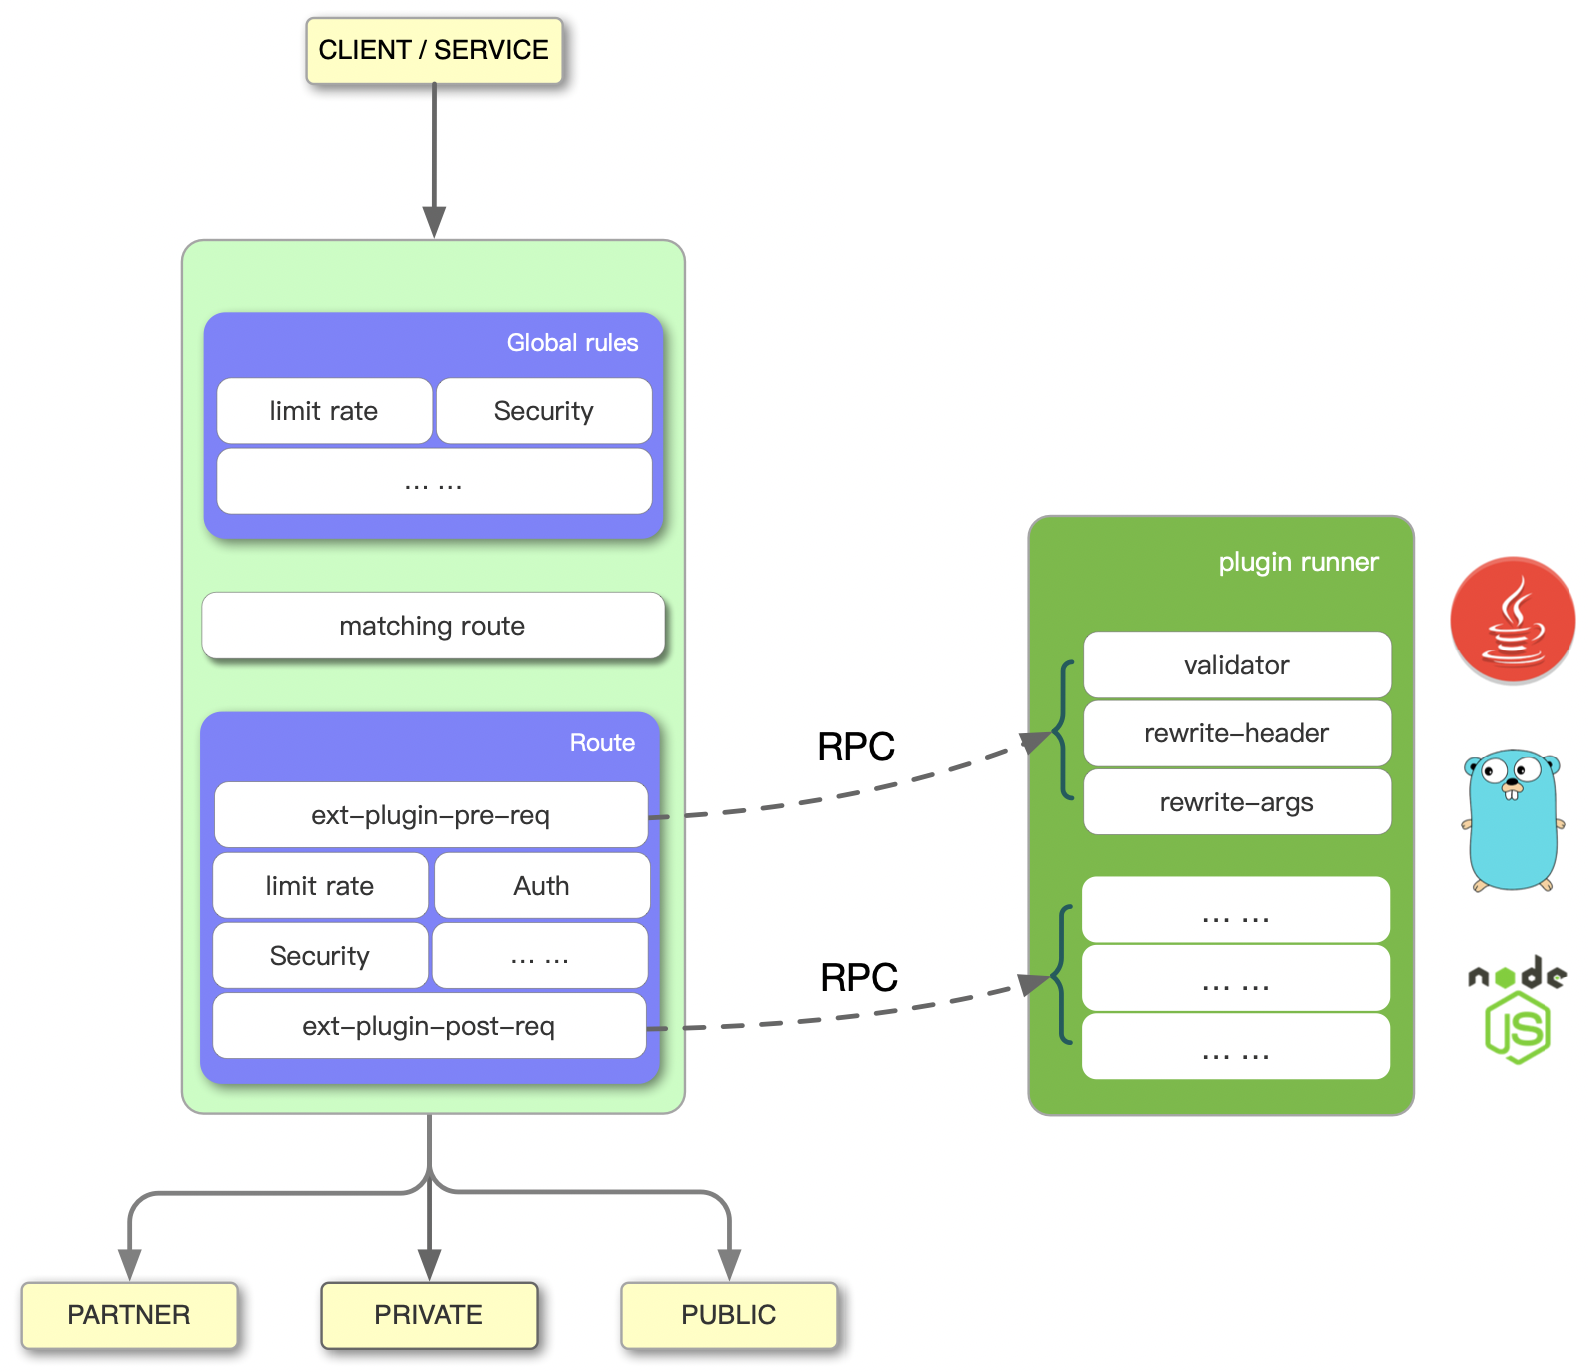
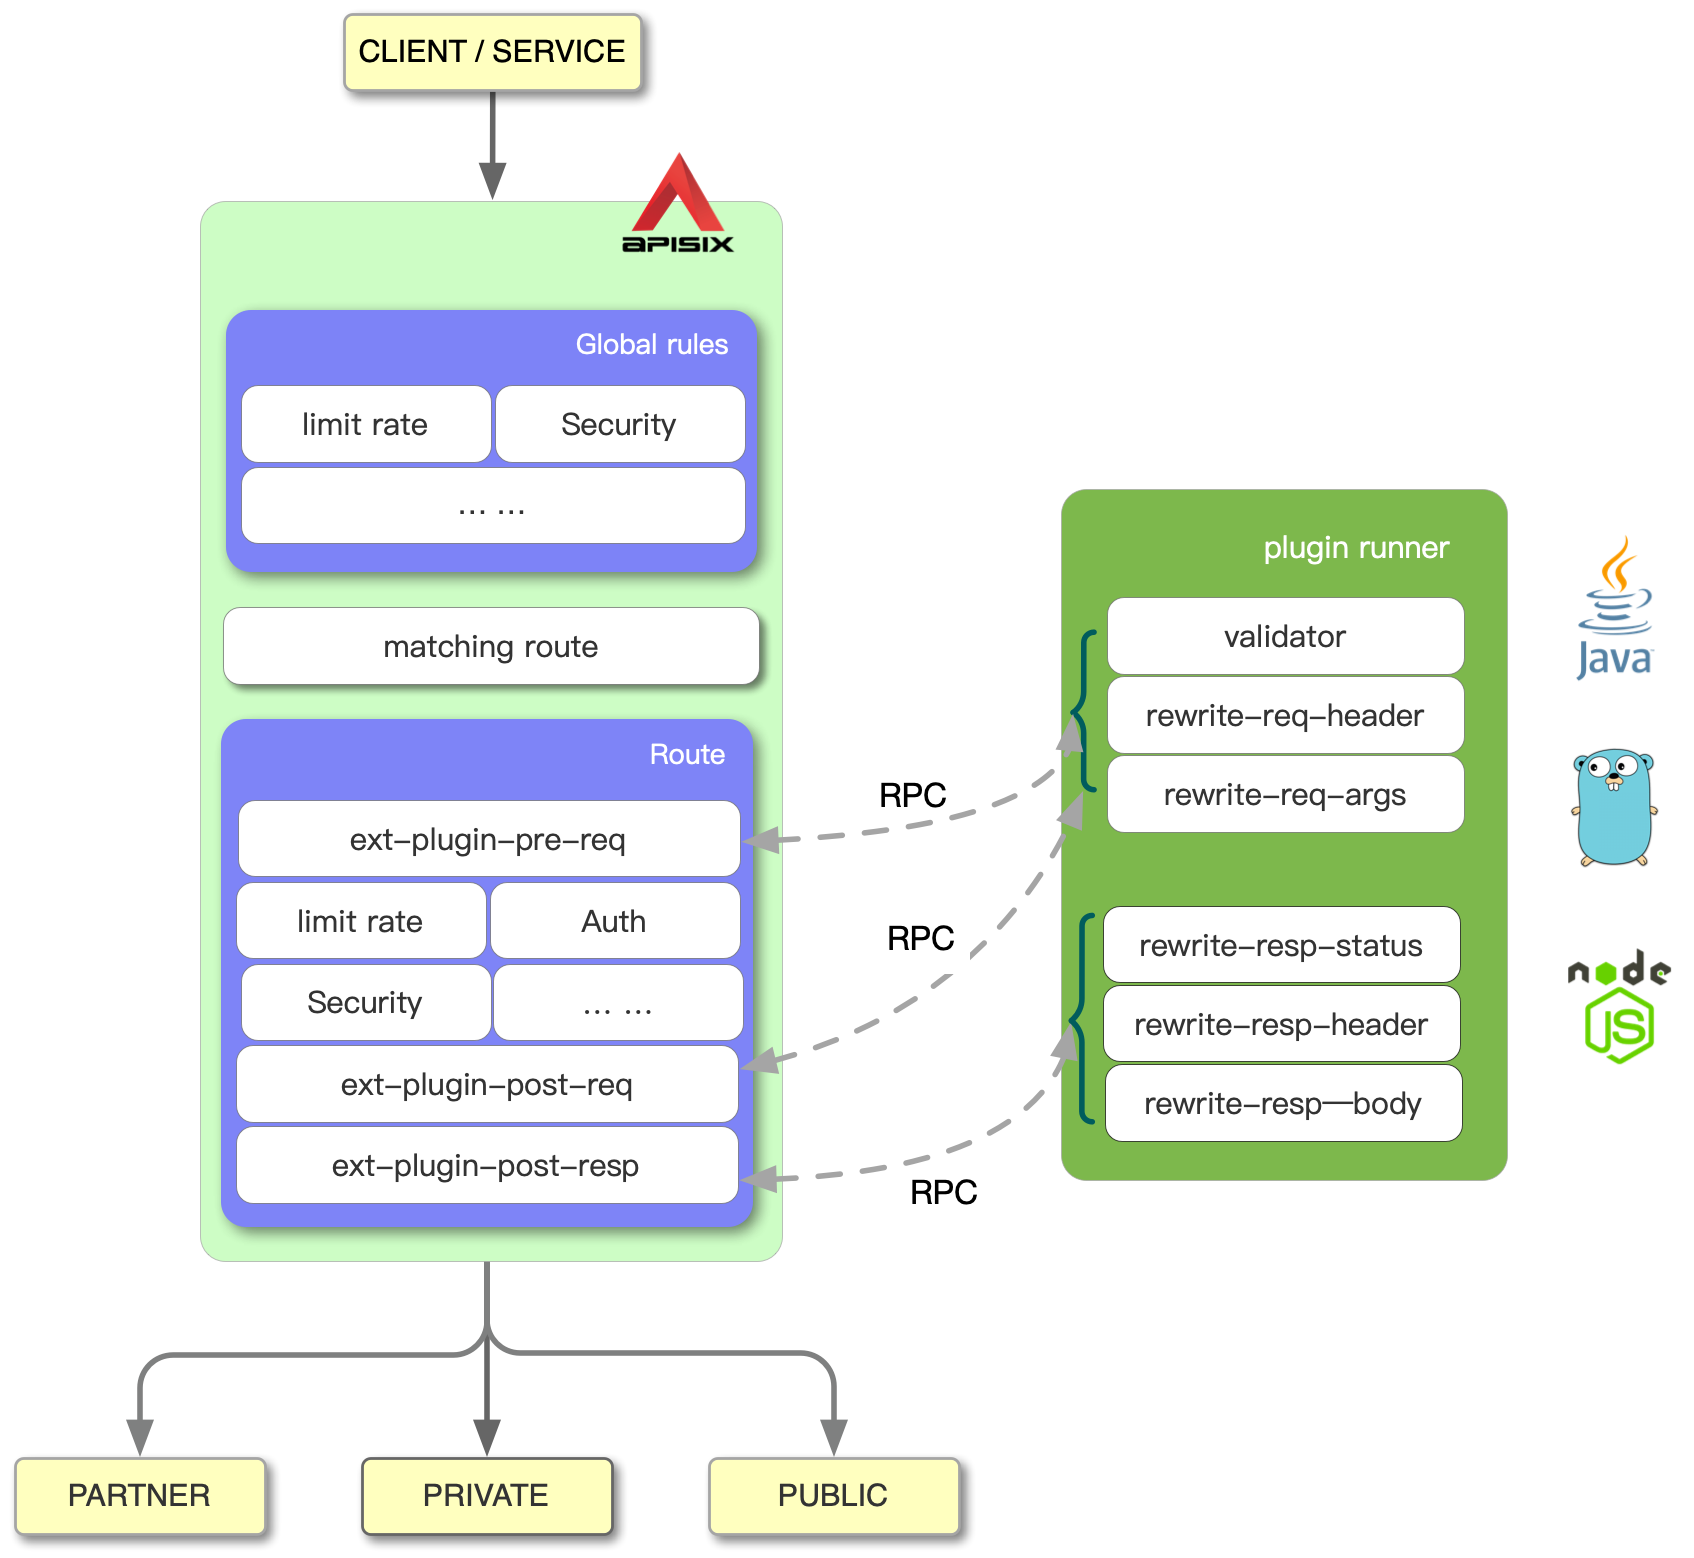
docs: add response filter for doc (#93)

Changed region(s): [[0.0, 0.0, 1.0, 1.0]]

diff --git a/docs/en/latest/getting-started.md b/docs/en/latest/getting-started.md
@@ -132,8 +132,43 @@ We can see that the RequestFilter takes the value of the body set in the configu
 (respond directly in the plugin), it will response directly in the APISIX without touching the upstream. We can also set response headers in the plugin and touch the upstream
 at the same time by set RespHeader in `pkgHTTP.Request`.
 
-For the `pkgHTTP.Request`, you can refer to the API documentation provided by the Go Runner SDK:
-https://pkg.go.dev/github.com/apache/apisix-go-plugin-runner
+`ResponseFilter` supports rewriting the response during the response phase, we can see an example of its use in the ResponseRewrite plugin:
+
+```go
+type ResponseRewriteConf struct {
+    Status  int               `json:"status"`
+    Headers map[string]string `json:"headers"`
+    Body    string            `json:"body"`
+}
+
+func (p *ResponseRewrite) ResponseFilter(conf interface{}, w pkgHTTP.Response) {
+	cfg := conf.(ResponseRewriteConf)
+	if cfg.Status > 0 {
+		w.WriteHeader(200)
+	}
+
+	w.Header().Set("X-Resp-A6-Runner", "Go")
+	if len(cfg.Headers) > 0 {
+		for k, v := range cfg.Headers {
+			w.Header().Set(k, v)
+		}
+	}
+
+	if len(cfg.Body) == 0 {
+		return
+	}
+	_, err := w.Write([]byte(cfg.Body))
+	if err != nil {
+		log.Errorf("failed to write: %s", err)
+	}
+}
+```
+
+We can see that `ResponseFilter` will rewrite the status, header, and response body of the response phase according to the configuration.
+
+In addition, we can also get the status and headers in the original response through `pkgHTTP.Response`.
+
+For the `pkgHTTP.Request` and `pkgHTTP.Response`, you can refer to the [API documentation](https://pkg.go.dev/github.com/apache/apisix-go-plugin-runner) provided by the Go Runner SDK.
 
 After building the application (`make build` in the example), we need to set some environment variables at runtime:
 
@@ -159,8 +194,9 @@ When you configure a plugin runner in APISIX, APISIX will treat the plugin runne
 
 If you configure the ext-plugin-* plugin for a given route, a request to hit that route will trigger APISIX to make an RPC call to the plugin runner via a unix socket. The call is broken down into two phases.
 
-- ext-plugin-pre-req: before executing most of the APISIX built-in plugins (Lua language plugins)
-- ext-plugin-post-req: after the execution of the APISIX built-in plugins (Lua language plugins)
+- ext-plugin-pre-req: executed during handling the request, before most of the APISIX built-in plugins (Lua language plugins)
+- ext-plugin-post-req: executed during handling the request, after most of the APISIX built-in plugins (Lua language plugins)
+- ext-plugin-post-resp: executed during handling the response, after most of the APISIX built-in plugins (Lua language plugins)
 
 Configure the timing of plugin runner execution as needed.
 
